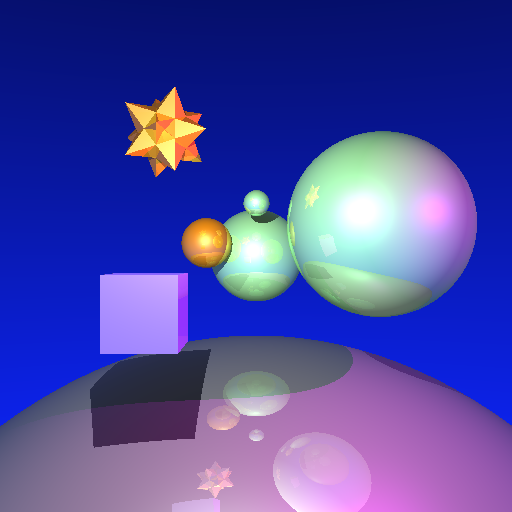
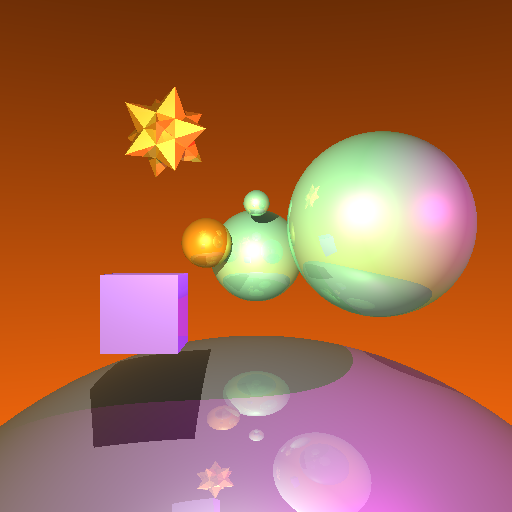
;;

diff --git a/A4/A4.cpp b/A4/A4.cpp
@@ -174,7 +174,7 @@ static vec3 RayColour(
     } else {
         // NOTE: BG colour
         float y = ray.direction.y;
-        colour += (1.0 - y) * vec3(0.039, 0.106, 0.722) + y * vec3(0.0, 0.0, 0.0);
+        colour += (1.0 - y) * vec3(0.722, 0.306, 0.039) + y * vec3(0.0, 0.0, 0.0);
     }
     return colour;
 }
